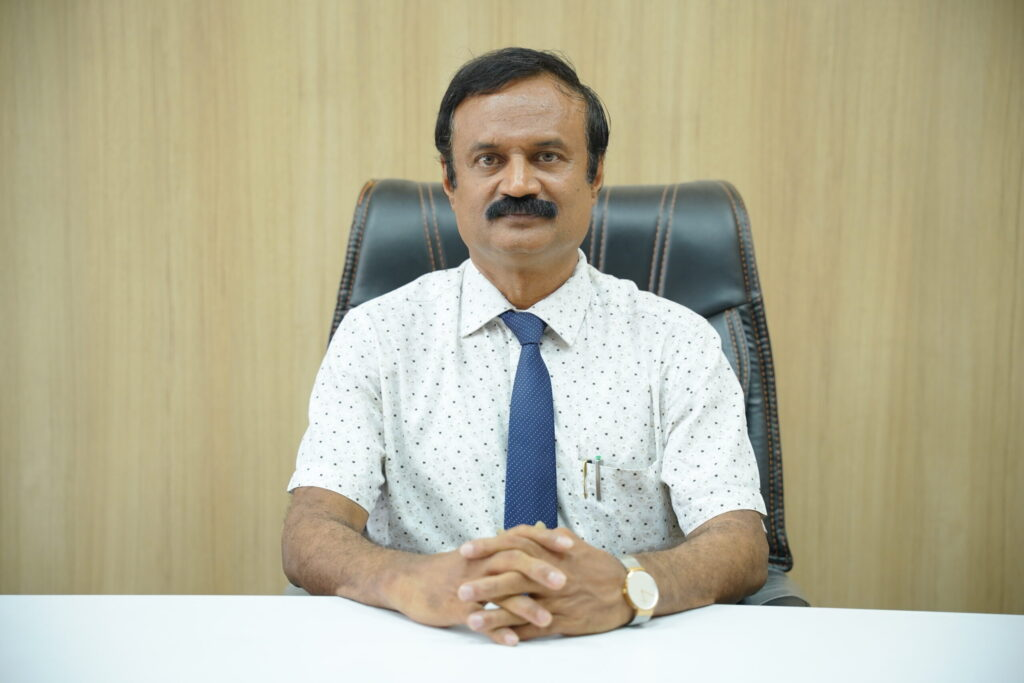
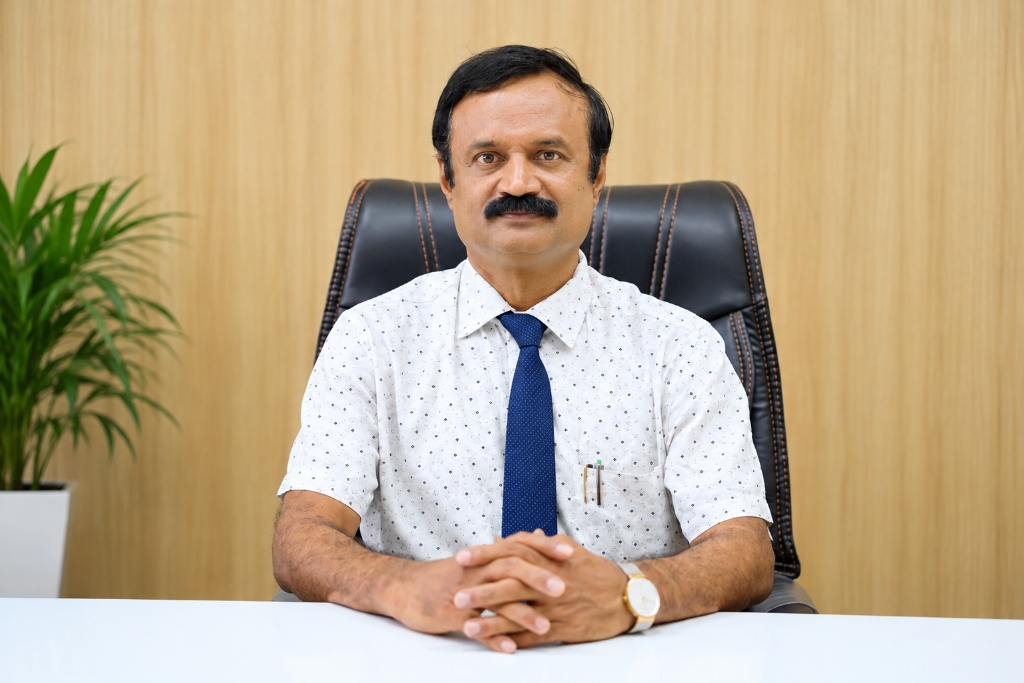
fix(leadership): swap portrait of Principal Dr. Ravi J.D. Saldanha with high-res photo

diff --git a/src/pages/AboutPage.jsx b/src/pages/AboutPage.jsx
@@ -779,7 +779,7 @@ export default function AboutPage() {
                     : person.id === 'rector' || person.name.toLowerCase().includes('lourdu')
                     ? '50% 18%'
                     : person.id === 'principal' || person.name.toLowerCase().includes('ravi')
-                    ? '50% 10%'
+                    ? '50% 15%'
                     : person.id === 'finance-officer' || person.name.toLowerCase().includes('roshan')
                     ? '50% 15%'
                     : '50% 10%';
